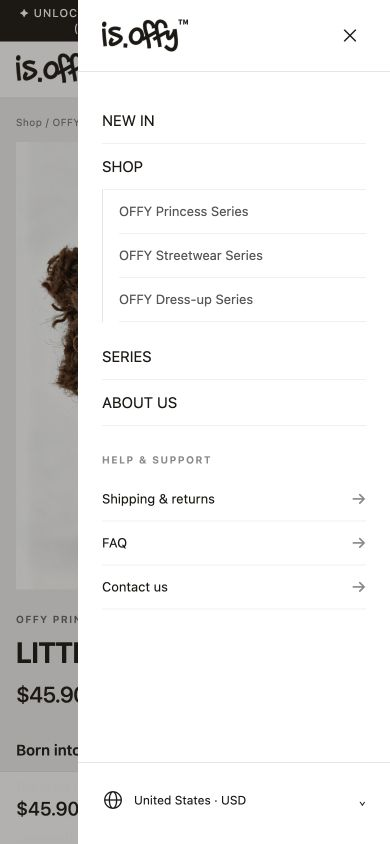
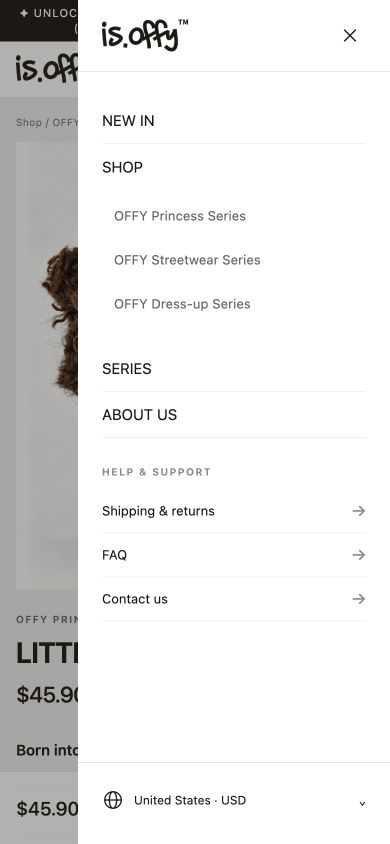
docs: refine series links in mobile menu concept

diff --git a/docs/design/mobile-header/index.html b/docs/design/mobile-header/index.html
@@ -531,6 +531,24 @@
         margin-bottom: 6px;
         border-bottom: 0;
       }
+      .drawer-links > .shop-link {
+        border-bottom: 0;
+      }
+      .drawer-series-links {
+        padding: 4px 0 6px 12px;
+        margin: 0 0 14px;
+      }
+      .drawer-links .drawer-series-links .series-name {
+        border: 0;
+        color: #666;
+        font-weight: 400;
+        letter-spacing: 0.01em;
+      }
+      .drawer-series-links .series-name:hover {
+        color: #1d1915;
+        text-decoration: underline;
+        text-underline-offset: 4px;
+      }
       .drawer-links .series-name {
         font-size: 13px;
         min-height: 44px;
@@ -1051,8 +1069,8 @@
       <div class="drawer-content">
         <nav aria-label="Mobile navigation" class="drawer-links original-mobile-nav">
           <a href="?page=shop&amp;entry=new" data-page="shop" data-entry="new">NEW IN</a>
-          <a href="?page=shop" data-page="shop" data-entry="shop">SHOP</a>
-          <div style="border-left: 1px solid #e5e5e5; padding-left: 16px; margin: 0 0 12px">
+          <a class="shop-link" href="?page=shop" data-page="shop" data-entry="shop">SHOP</a>
+          <div class="drawer-series-links">
             <a class="series-name" href="?page=series" data-page="series">OFFY Princess Series</a>
             <a class="series-name" href="?page=series" data-page="series">OFFY Streetwear Series</a>
             <a class="series-name" href="?page=series" data-page="series">OFFY Dress-up Series</a>

diff --git a/docs/design/mobile-header/verification.md b/docs/design/mobile-header/verification.md
@@ -8,6 +8,8 @@
 - 320/375/390px：手机第二行隐藏，只有56px白色工具栏；购物袋44×44px，仅图标与数量，无BAG文字胶囊。三档均无横向溢出。
 - 菜单恢复原有NEW IN / SHOP / 三系列 / SERIES / ABOUT US结构，同时保留Help & Support的Shipping & Returns、FAQ和Contact Us三入口。菜单打开与Esc关闭通过；保留的FAQ入口可进入本地帮助说明，未访问或修改真实业务数据。向下滚动455.5px后Header top仍为0，未出现第二行。
 - 768/1440px：保留黑条和原桌面主导航，BAG文字胶囊可见。768px原型导航末端498.86px，国家按钮起点513.83px，无交叠及页面溢出。
+- 系列子导航样式进一步收敛：去掉SHOP下方横线、分组竖线与三条子项横线，保留12px缩进及13px次级文字。390px和320px下三项边框均为0px、点击区均44px，文字无横向溢出；系列链接仍可进入原型中的系列页，Help & Support三项保留。仅更新侧栏截图，其他已保留的界面与业务不变。
+- 本次全量Vitest回归通过：144个文件、903项；原型JavaScript语法、Prettier与OpenSpec检查通过。
 - 原型及确认页JavaScript语法、格式检查通过；设计资源为已保存的只读样本，不请求Shopify管理页、不发送订单或广告事件。
 
 旧版截图中展示的删除黑条/双行导航不再代表当前设计。本目录中的相关截图已更新或移除；旧方案仍可从Git历史查看。原归档方案仅保留历史，不作为后续实施依据。

diff --git a/docs/design/mobile-header/proposal.md b/docs/design/mobile-header/proposal.md
@@ -4,7 +4,7 @@
 
 保留原来的黑色滚动提示条，运费与赠品文案继续按原顺序轮播。手机端不新增第二行导航；NEW IN / SHOP / SERIES / ABOUT US 和三个系列入口继续放在原有侧栏。桌面保留原黑条、单行导航和购物袋胶囊按钮。
 
-保留用户认可的手机白色工具栏样式：Logo左对齐、地球图标+国家短码、紧凑购物袋图标及数量、菜单按钮。工具栏56px高，购物袋可点击区44×44px；移除手机购物袋的大号BAG文字胶囊。侧栏底部保留Help & Support：Shipping & Returns、FAQ、Contact Us。国家面板、购物袋实际功能、购买条、商品价格及推荐逻辑继续沿用现有实现。
+保留用户认可的手机白色工具栏样式：Logo左对齐、地球图标+国家短码、紧凑购物袋图标及数量、菜单按钮。工具栏56px高，购物袋可点击区44×44px；移除手机购物袋的大号BAG文字胶囊。侧栏的三个系列取消框线，用轻微缩进和次级文字表达从属关系，名称与链接不变。侧栏底部保留Help & Support：Shipping & Returns、FAQ、Contact Us。国家面板、购物袋实际功能、购买条、商品价格及推荐逻辑继续沿用现有实现。
 
 [设计预览](http://127.0.0.1:8840/review.html) 已更新，页面提供商品页、首页、侧栏和滚动场景。原型仅操作本地样本，不写真实购物袋、Cookie、Shopify、支付、广告或KOL系统；国家确认禁用。
 

diff --git a/docs/design/mobile-header/DESIGN.md b/docs/design/mobile-header/DESIGN.md
@@ -19,6 +19,8 @@
 
 桌面导航仍显示四个原入口；手机隐藏该行并从侧栏提供入口。侧栏恢复原主导航/三系列结构，并保留底部Help & Support（Shipping & Returns、FAQ、Contact Us）；国家入口继续位于底部。
 
+三个系列作为SHOP下的轻量子导航：取消竖线、外框和逐项横线，SHOP标题下方不画分隔线；用12px缩进、13px次级灰字及44px高的可点击行建立层级。名称和链接不变，不加灰底卡片；其他主导航及Help & Support保留现有样式。
+
 ## 范围与预览
 
 国家面板、购物袋和底部购买逻辑不改；原型中的这些入口只是已有逻辑的视觉上下文。国家确认禁用，购物袋为空的本地演示，Add to Bag只显示原型说明。
